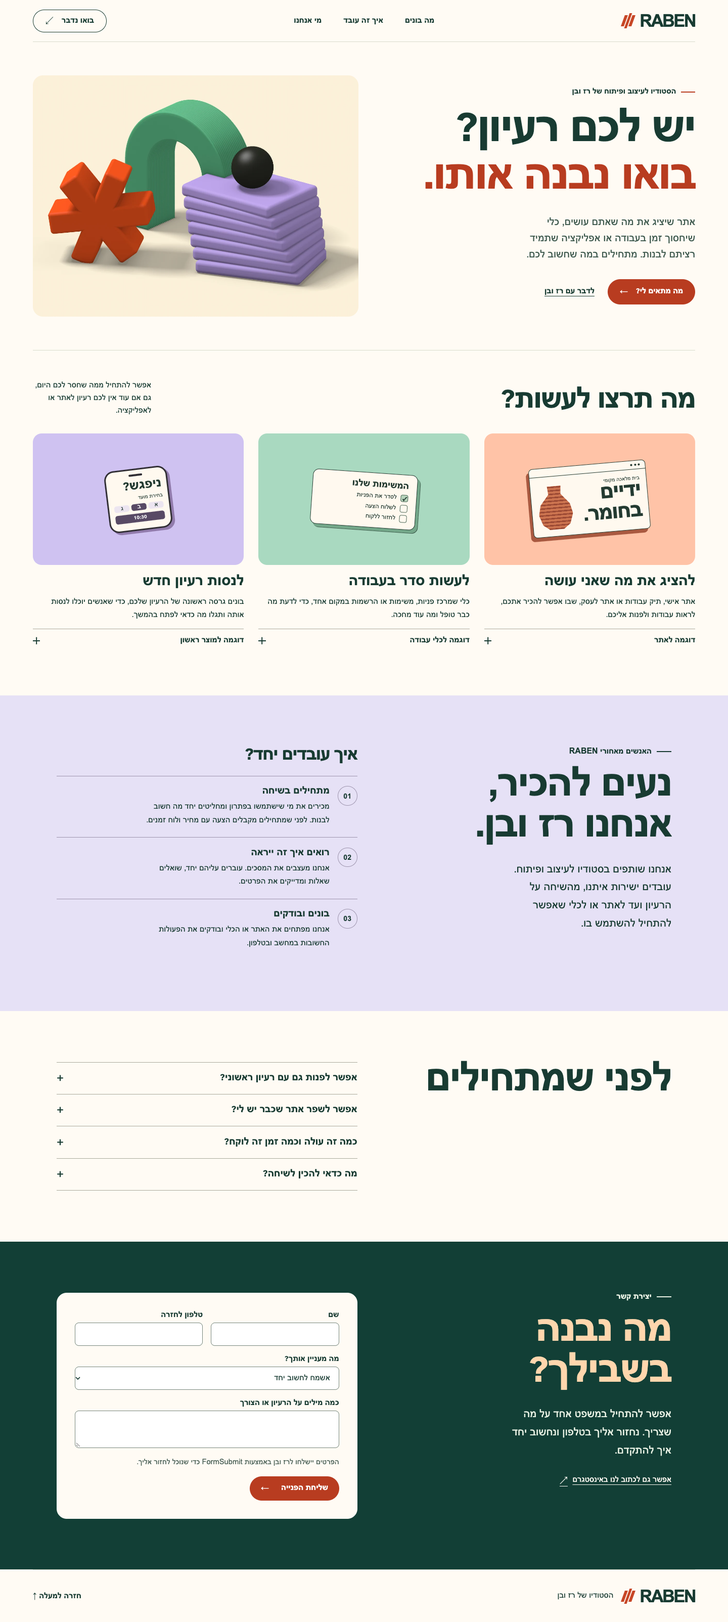
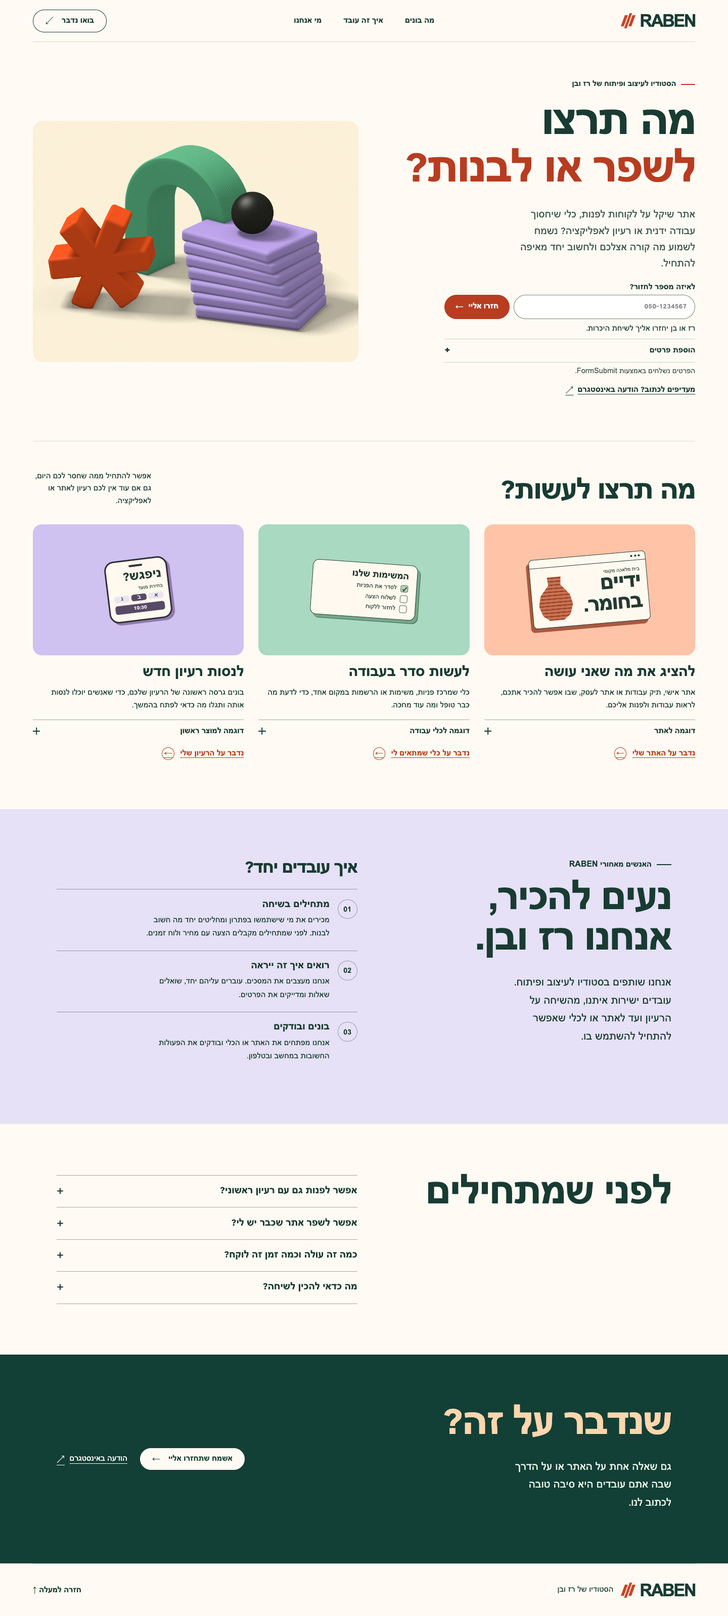
Let visitors request a callback directly from the opening screen

diff --git a/dist/index.html b/dist/index.html
@@ -30,9 +30,50 @@
 <section class="intro shell" aria-labelledby="intro-title">
   <div class="intro-copy">
     <p class="studio-line"><span aria-hidden="true"></span> הסטודיו לעיצוב ופיתוח של רז ובן</p>
-    <h1 id="intro-title">יש לכם רעיון?<br><em>בואו נבנה אותו.</em></h1>
-    <p class="intro-text">אתר שיציג את מה שאתם עושים, כלי שיחסוך זמן בעבודה או אפליקציה שתמיד רציתם לבנות. מתחילים במה שחשוב לכם.</p>
-    <div class="intro-actions"><a class="solid-link" href="#websites">מה מתאים לי? <span aria-hidden="true">←</span></a><a class="quiet-link" href="#contact">לדבר עם רז ובן</a></div>
+    <h1 id="intro-title">מה תרצו<br><em>לשפר או לבנות?</em></h1>
+    <p class="intro-text">אתר שיקל על לקוחות לפנות, כלי שיחסוך עבודה ידנית או רעיון לאפליקציה? נשמח לשמוע מה קורה אצלכם ולחשוב יחד מאיפה להתחיל.</p>
+    <div id="contact" class="hero-contact">
+      <form id="brief-form" class="journey-form" aria-label="בקשת שיחת היכרות עם רז ובן" action="https://formsubmit.co/raben10studio@gmail.com" method="post">
+      <fieldset>
+        <legend class="journey-sr">פרטי הפנייה</legend>
+        <label for="phone">לאיזה מספר לחזור?</label>
+        <div class="callback-row">
+          <input placeholder="050-1234567" id="phone" name="phone" type="tel" dir="ltr" autocomplete="tel" inputmode="tel" maxlength="25" required>
+          <button type="submit">חזרו אליי <span aria-hidden="true">←</span></button>
+        </div>
+        <p class="callback-note">רז או בן יחזרו אליך לשיחת היכרות.</p>
+        <details id="brief-extras" class="journey-extras">
+          <summary><span>הוספת פרטים <small id="brief-topic"></small></span></summary>
+          <label for="idea">על מה נדבר?</label>
+          <textarea id="idea" name="message" rows="2" maxlength="2000"></textarea>
+          <div class="journey-fields">
+            <div><label for="name">שם</label><input id="name" name="name" autocomplete="name" maxlength="100"></div>
+            <div><label for="kind">נושא הפנייה</label>
+              <select id="kind" name="project_type">
+                <option value="רוצה לחשוב על זה יחד">אשמח לחשוב יחד</option>
+                <option value="אתר או ממשק">אתר או דף נחיתה</option>
+                <option value="כלי לעסק">כלי לעבודה יומיומית</option>
+                <option value="רעיון למוצר">מוצר דיגיטלי חדש</option>
+                <option value="שיתוף פעולה">שיתוף פעולה</option>
+              </select>
+            </div>
+          </div>
+        </details>
+        <input type="text" name="_honey" tabindex="-1" autocomplete="off" hidden>
+        <input type="hidden" name="_subject" value="בקשה לשיחת היכרות מאתר RABEN">
+        <input type="hidden" name="_template" value="table">
+        <p class="journey-form-note">הפרטים נשלחים באמצעות FormSubmit.</p>
+      </fieldset>
+      <p id="form-status" role="status"></p>
+      <div id="contact-fallback" hidden>
+        <label for="instagram-brief">הודעה מוכנה לאינסטגרם</label>
+        <textarea id="instagram-brief" readonly rows="5"></textarea>
+        <a id="instagram-fallback-link" class="journey-social" data-instagram href="https://ig.me/m/raben10studio" target="_blank" rel="noopener noreferrer">העתקת ההודעה ופתיחת אינסטגרם <span aria-hidden="true">↗</span></a>
+        <p id="instagram-copy-status" role="status">אחרי ההעתקה אפשר להדביק את ההודעה בשיחה ולשלוח.</p>
+      </div>
+    </form>
+      <a class="hero-dm" data-instagram href="https://ig.me/m/raben10studio" target="_blank" rel="noopener noreferrer">מעדיפים לכתוב? הודעה באינסטגרם <span aria-hidden="true">↗</span></a>
+    </div>
   </div>
   <div class="studio-art" aria-hidden="true"><img src="assets/studio-objects.webp" width="1000" height="820" fetchpriority="high" alt=""></div>
 </section>
@@ -55,8 +96,8 @@
         <details class="service-example">
           <summary>דוגמה לאתר <span aria-hidden="true"></span></summary>
           <p>בעמוד של סדנת קרמיקה אפשר לראות מה מכינים, לבדוק למי הסדנה מתאימה ולבקש להצטרף.</p>
-          <a href="#contact" data-service-kind="אתר או ממשק">נדבר על האתר שלי <span aria-hidden="true">←</span></a>
         </details>
+        <a class="service-contact" href="#contact" data-service-kind="אתר או ממשק">נדבר על האתר שלי <span aria-hidden="true">←</span></a>
       </div>
     </article>
     <article class="service-option" id="solution-tool">
@@ -69,8 +110,8 @@
         <details class="service-example">
           <summary>דוגמה לכלי עבודה <span aria-hidden="true"></span></summary>
           <p>בעמותה שמחלקת סלי מזון, הצוות יכול לראות מי נרשם לחלוקה, למי שובץ מתנדב ומי כבר קיבל סל.</p>
-          <a href="#contact" data-service-kind="כלי לעסק">נדבר על כלי בשבילנו <span aria-hidden="true">←</span></a>
         </details>
+        <a class="service-contact" href="#contact" data-service-kind="כלי לעסק">נדבר על כלי שמתאים לי <span aria-hidden="true">←</span></a>
       </div>
     </article>
     <article class="service-option" id="solution-product">
@@ -83,8 +124,8 @@
         <details class="service-example">
           <summary>דוגמה למוצר ראשון <span aria-hidden="true"></span></summary>
           <p>יש רעיון לחבר בין אנשים שרוצים ללמוד יחד? אפשר להתחיל במסך שמציע שותף ללימוד ומאפשר לקבוע פגישה.</p>
-          <a href="#contact" data-service-kind="רעיון למוצר">נדבר על הרעיון שלי <span aria-hidden="true">←</span></a>
         </details>
+        <a class="service-contact" href="#contact" data-service-kind="רעיון למוצר">נדבר על הרעיון שלי <span aria-hidden="true">←</span></a>
       </div>
     </article>
   </div>
@@ -120,45 +161,13 @@
     </div>
   </div>
 </section>
-<section id="contact" class="journey-block journey-contact" aria-labelledby="contact-title">
-  <div class="journey-shell journey-contact-layout">
+<section class="journey-block journey-contact" aria-labelledby="contact-title">
+  <div class="journey-shell closing-contact">
     <div class="journey-intro">
-      <p class="journey-kicker">יצירת קשר</p>
-      <h2 id="contact-title">מה נבנה<br>בשבילך?</h2>
-      <p>אפשר להתחיל במשפט אחד על מה שצריך. נחזור אליך בטלפון ונחשוב יחד איך להתקדם.</p>
-      <a class="journey-social" href="https://ig.me/m/raben10studio" target="_blank" rel="noopener noreferrer">אפשר גם לכתוב לנו באינסטגרם <span aria-hidden="true">↗</span></a>
+      <h2 id="contact-title">שנדבר על זה?</h2>
+      <p>גם שאלה אחת על האתר או על הדרך שבה אתם עובדים היא סיבה טובה לכתוב לנו.</p>
     </div>
-    <form id="brief-form" class="journey-form" aria-labelledby="contact-title" action="https://formsubmit.co/raben10studio@gmail.com" method="post">
-      <fieldset>
-        <legend class="journey-sr">פרטי הפנייה</legend>
-        <div class="journey-fields">
-          <div><label for="name">שם</label><input id="name" name="name" autocomplete="name" maxlength="100" required></div>
-          <div><label for="phone">טלפון לחזרה</label><input id="phone" name="phone" type="tel" dir="ltr" autocomplete="tel" inputmode="tel" maxlength="25" required></div>
-        </div>
-        <label for="kind">מה מעניין אותך?</label>
-        <select id="kind" name="project_type">
-          <option value="רוצה לחשוב על זה יחד">אשמח לחשוב יחד</option>
-          <option value="אתר או ממשק">אתר או דף נחיתה</option>
-          <option value="כלי לעסק">כלי לעבודה יומיומית</option>
-          <option value="רעיון למוצר">מוצר דיגיטלי חדש</option>
-          <option value="שיתוף פעולה">שיתוף פעולה</option>
-        </select>
-        <label for="idea">כמה מילים על הרעיון או הצורך</label>
-        <textarea id="idea" name="message" rows="3" maxlength="2000" required></textarea>
-        <input type="text" name="_honey" tabindex="-1" autocomplete="off" hidden>
-        <input type="hidden" name="_subject" value="פנייה חדשה מאתר RABEN">
-        <input type="hidden" name="_template" value="table">
-        <p class="journey-form-note">הפרטים יישלחו לרז ובן באמצעות FormSubmit כדי שנוכל לחזור אליך.</p>
-        <button type="submit">שליחת הפנייה <span aria-hidden="true">←</span></button>
-      </fieldset>
-      <p id="form-status" role="status"></p>
-      <div id="contact-fallback" hidden>
-        <label for="instagram-brief">הודעה מוכנה לאינסטגרם</label>
-        <textarea id="instagram-brief" readonly rows="5"></textarea>
-        <a id="instagram-fallback-link" class="journey-social" href="https://ig.me/m/raben10studio" target="_blank" rel="noopener noreferrer">העתקת ההודעה ופתיחת אינסטגרם <span aria-hidden="true">↗</span></a>
-        <p id="instagram-copy-status" role="status">אחרי ההעתקה אפשר להדביק את ההודעה בשיחה ולשלוח.</p>
-      </div>
-    </form>
+    <div class="closing-actions"><a class="header-contact" href="#contact">אשמח שתחזרו אליי <span aria-hidden="true">←</span></a><a class="journey-social" data-instagram href="https://ig.me/m/raben10studio" target="_blank" rel="noopener noreferrer">הודעה באינסטגרם <span aria-hidden="true">↗</span></a></div>
   </div>
 </section>
 </main>

diff --git a/dist/styles.css b/dist/styles.css
@@ -28,10 +28,10 @@ section[id] { scroll-margin-block-start: 24px; }
 .brand-emblem i { width: .16em; height: .62em; background: #c74626; }
 .brand-emblem i:nth-child(2) { height: .86em; }
 .masthead nav { display: flex; flex-wrap: wrap; justify-content: center; gap: clamp(16px,3vw,48px); }
-.masthead nav a, .header-contact, .intro-actions a, .endbar a { text-decoration: none; font-weight: 700; }
+.masthead nav a, .header-contact, .endbar a { text-decoration: none; font-weight: 700; }
 .masthead nav a { padding-block: 12px; }
 .masthead nav a:hover, .endbar a:hover { text-decoration: underline; text-underline-offset: 5px; }
-.header-contact, .solid-link { display: inline-flex; align-items: center; justify-content: center; gap: 16px; border-radius: 999px; min-height: 45px; padding: 0 24px; }
+.header-contact { display: inline-flex; align-items: center; justify-content: center; gap: 16px; border-radius: 999px; min-height: 45px; padding: 0 24px; }
 .header-contact { border: 1px solid var(--ink); }
 .header-contact:hover { background: var(--ink); color: white; }
 .intro { display: grid; grid-template-columns: .96fr 1.04fr; align-items: center; gap: clamp(28px,5vw,85px); padding-block: clamp(36px,4.6vw,74px); }
@@ -41,10 +41,6 @@ section[id] { scroll-margin-block-start: 24px; }
 .intro h1 { font-size: clamp(54px,6.35vw,102px); line-height: 1.03; letter-spacing: -.026em; margin-block: .27em .24em; }
 .intro h1 em { font-style: normal; color: var(--orange); }
 .intro-text { font-size: clamp(18px,1.45vw,23px); line-height: 1.55; max-width: 35ch; color: #405b50; }
-.intro-actions { display: flex; align-items: center; flex-wrap: wrap; gap: 26px; margin-block-start: clamp(20px,2.1vw,34px); }
-.solid-link { background: var(--orange); color: white; min-height: 50px; }
-.solid-link:hover { background: #94311d; }
-.intro-actions .quiet-link { text-decoration: underline; text-underline-offset: 5px; padding-block: 12px; }
 .studio-art { aspect-ratio: 1.35; overflow: hidden; background: #efe8da; border-radius: 20px; }
 .studio-art img { display: block; width: 100%; height: 100%; object-fit: cover; }
 .endbar { display: flex; align-items: center; gap: 1rem; padding-block: 32px; border-top: 1px solid var(--rule); }
@@ -67,3 +63,9 @@ section[id] { scroll-margin-block-start: 24px; }
 @media (prefers-reduced-motion: reduce) { :root { scroll-behavior: auto; } }
 .services.section { width: min(1320px,91%); margin-inline: auto; border-top: 1px solid var(--rule); padding-block: clamp(38px,4vw,68px) clamp(50px,6vw,95px); }
 .services-heading h2 { font-size: clamp(38px,4vw,64px); line-height: 1.06; letter-spacing: -.022em; }
+.hero-contact { margin-block-start: 1.25rem; scroll-margin-top: 1.25rem; }
+.hero-dm { display: inline-flex; gap: .5em; align-items: center; padding-block: .8rem; font-weight: 600; text-underline-offset: .23em; }
+.closing-contact, .closing-actions { display: flex; flex-wrap: wrap; align-items: center; gap: 1.5rem; }
+.closing-contact { justify-content: space-between; }
+.closing-actions .header-contact { background: var(--paper); color: var(--ink); }
+.closing-actions .journey-social { margin: 0; }

diff --git a/dist/app.js b/dist/app.js
@@ -81,7 +81,7 @@ if (contact?.email) {
   form.action = destination.href;
 }
 if (contact?.instagram) {
-  document.querySelectorAll('#contact .journey-social').forEach(link => {
+  document.querySelectorAll('[data-instagram]').forEach(link => {
     link.href = 'https://ig.me/m/' + encodeURIComponent(contact.instagram);
   });
 }
@@ -95,14 +95,18 @@ const fallback = document.getElementById('contact-fallback');
 const instagramBrief = document.getElementById('instagram-brief');
 const copyStatus = document.getElementById('instagram-copy-status');
 
+function callbackMessage() {
+  return message.value.trim() || 'אשמח שתחזרו אליי לשיחת היכרות.';
+}
+
 function updateFallback() {
   instagramBrief.value = [
     'היי רז ובן, אשמח לדבר על פרויקט.',
-    'שם: ' + nameField.value.trim(),
+    ...(nameField.value.trim() ? ['שם: ' + nameField.value.trim()] : []),
     'טלפון: ' + phone.value.trim(),
     'סוג הפרויקט: ' + kind.selectedOptions[0].textContent,
     '',
-    message.value.trim()
+    callbackMessage()
   ].join('\n');
 }
 
@@ -110,15 +114,21 @@ form.addEventListener('input', event => {
   event.target.setCustomValidity?.('');
   if (!fallback.hidden) updateFallback();
 });
+function updateTopic() {
+  document.getElementById('brief-topic').textContent = kind.selectedIndex > 0
+    ? kind.selectedOptions[0].textContent
+    : '';
+}
+
+updateTopic();
 kind.addEventListener('change', () => {
+  updateTopic();
   if (!fallback.hidden) updateFallback();
 });
 
 form.addEventListener('submit', async event => {
   event.preventDefault();
   if (fieldset.disabled) return;
-  nameField.setCustomValidity(nameField.value.trim() ? '' : 'כדאי להוסיף שם כדי שנדע למי לחזור.');
-  message.setCustomValidity(message.value.trim() ? '' : 'אפשר לספר במשפט אחד מה הצורך שלך.');
   const number = phone.value.trim();
   const validPhone = /^\+?[0-9\s()-]+$/.test(number) && /^\d{8,15}$/.test(number.replace(/\D/g, ''));
   phone.setCustomValidity(validPhone ? '' : 'יש להזין מספר טלפון תקין, כולל קידומת.');
@@ -127,7 +137,7 @@ form.addEventListener('submit', async event => {
   const payload = Object.fromEntries(new FormData(form));
   payload.name = nameField.value.trim();
   payload.phone = number;
-  payload.message = message.value.trim();
+  payload.message = callbackMessage();
   fieldset.disabled = true;
   fallback.hidden = true;
   formStatus.textContent = 'שולחים את הפנייה…';
@@ -145,6 +155,8 @@ form.addEventListener('submit', async event => {
     const result = await response.json();
     if (!response.ok || ![true, 'true'].includes(result.success)) throw new Error('Submission rejected');
     form.reset();
+    document.getElementById('brief-extras').open = false;
+    updateTopic();
     instagramBrief.value = '';
     formStatus.textContent = 'תודה, הפנייה נשלחה. נחזור אליך למספר שהשארת.';
   } catch {

diff --git a/dist/journey.css b/dist/journey.css
@@ -106,9 +106,7 @@
   text-underline-offset: 5px;
 }
 .journey-form {
-  padding: clamp(1.2rem, 3vw, 2.25rem);
-  border-radius: 1.25rem;
-  background: #fffbf4;
+  max-width: 31rem;
   color: #183b32;
 }
 .journey-form fieldset { border: 0; margin: 0; padding: 0; min-width: 0; }
@@ -117,6 +115,26 @@
   grid-template-columns: repeat(2, minmax(0, 1fr));
   gap: 1rem;
 }
+.journey-extras {
+  border-block: 1px solid #c9d0c2;
+  margin-block: .45rem;
+}
+.journey-extras summary {
+  display: flex;
+  align-items: center;
+  justify-content: space-between;
+  gap: .8rem;
+  padding-block: .65rem;
+  min-height: 44px;
+  list-style: none;
+  cursor: pointer;
+  font-weight: 600;
+}
+.journey-extras summary::-webkit-details-marker { display: none; }
+.journey-extras summary::after { content: '+'; font-size: 1.4rem; }
+.journey-extras[open] summary::after { content: '−'; }
+.journey-extras small { font-size: .85rem; color: #475e54; margin-inline-start: .35rem; }
+.journey-extras .journey-fields { margin-block-start: .4rem; }
 .journey-form label {
   display: block;
   margin-block-end: .4rem;
@@ -150,10 +168,19 @@
   font-weight: 650;
   cursor: pointer;
 }
+.callback-row {
+  display: grid;
+  grid-template-columns: minmax(0, 1fr) auto;
+  gap: .55rem;
+}
+.journey-form .callback-row input { min-width: 0; margin: 0; border-radius: 2rem; padding-inline: 1rem; text-align: right; }
+.journey-form .callback-row button { white-space: nowrap; gap: .6rem; }
+.journey-form .callback-note { margin: .5rem 0 0; font-size: 1rem; line-height: 1.5; }
+.journey-form #form-status:empty { margin: 0; }
 .journey-form button:hover { background: #94311d; }
 .journey-form fieldset:disabled { opacity: .7; }
 .journey-form .journey-form-note,
-#instagram-copy-status { font-size: .92rem; line-height: 1.5; margin-block: .25rem 1rem; color: #475e54; }
+#instagram-copy-status { font-size: .92rem; line-height: 1.5; margin-block: .25rem 0; color: #475e54; }
 #form-status:not(:empty),
 #contact-fallback:not([hidden]) { margin-block-start: 1rem; }
 #form-status:not(:empty) { padding: .85rem 1rem; border-radius: .6rem; background: #e1eee2; }

diff --git a/dist/services.css b/dist/services.css
@@ -171,7 +171,7 @@
 .service-body > p { margin-block: .55rem .85rem; line-height: 1.6; }
 
 .service-example { border-block-start: 1px solid #aba99e; }
-.service-example summary, .service-example a {
+.service-example summary, .service-contact {
   display: flex;
   align-items: center;
   gap: .7rem;
@@ -203,9 +203,24 @@
 
 .service-example summary span::after { transform: rotate(90deg); }
 .service-example[open] summary span::after { display: none; }
-.service-example p { line-height: 1.6; }
-.service-example a { width: fit-content; text-decoration: underline; text-underline-offset: .24em; }
-.service-example :is(summary, a):hover { text-decoration: underline; text-underline-offset: .24em; }
+.service-example p { padding-block-end: .8rem; line-height: 1.6; }
+.service-example summary:hover { text-decoration: underline; text-underline-offset: .24em; }
+.service-contact {
+  width: fit-content;
+  color: var(--orange);
+  text-decoration: underline;
+  text-underline-offset: .22em;
+}
+.service-contact span {
+  display: grid;
+  place-items: center;
+  width: 1.55rem;
+  height: 1.55rem;
+  border: 1px solid currentColor;
+  border-radius: 50%;
+  line-height: 1;
+}
+.service-contact:is(:hover, :focus-visible) span { background: var(--orange); color: white; }
 
 @media (max-width: 760px) {
   .services-heading { display: grid; gap: .6rem; margin-block-end: 1.4rem; }

diff --git a/dist/services.js b/dist/services.js
@@ -2,7 +2,7 @@
 document.querySelectorAll('[data-service-kind]').forEach(link => {
   link.addEventListener('click', () => {
     const field = document.getElementById('kind');
-    if (!field || field.disabled) return;
+    if (!field || field.matches(':disabled')) return;
     field.value = link.dataset.serviceKind;
     field.dispatchEvent(new Event('change', { bubbles: true }));
   });

diff --git a/README.md b/README.md
@@ -1,6 +1,6 @@
 # RABEN · הסטודיו של רז ובן
 
-אתר בעברית לעיצוב ופיתוח אתרים, כלים לעבודה ומוצרים דיגיטליים. אפשר לבחור צורך, לפתוח דוגמה ולפנות ישירות לרז ובן. העמוד כתוב ב־HTML, CSS ו־JavaScript ופועל ללא שלב בנייה.
+אתר בעברית לעיצוב ופיתוח אתרים, כלים לעבודה ומוצרים דיגיטליים. במסך הפתיחה מופיע טופס לבקשת שיחה עם רז ובן. אפשר גם לפנות אליהם בהודעה באינסטגרם. לכל שירות יש דוגמה וקישור פנייה משלו. העמוד כתוב ב־HTML, CSS ו־JavaScript ופועל ללא שלב בנייה.
 
 ![מסך הבית במחשב](docs/screenshots/desktop.png)
 
@@ -30,7 +30,7 @@ python3 -m http.server 4173 --bind 127.0.0.1 --directory dist
 
 ## פניות ועבודות
 
-הדוגמאות לשירותים נפתחות גם ללא JavaScript. לאחר בחירת הקישור בתוך דוגמה, JavaScript ממלא את נושא הפנייה. אפשר לשנות אותו או לבחור לחשוב יחד. השליחה מתבצעת באמצעות FormSubmit. במקרה של כשל הפרטים נשמרים בטופס ואפשר להעתיק הודעה מוכנה לאינסטגרם. כתובת הטופס וקישור האינסטגרם מופיעים גם ב־HTML לשימוש ללא JavaScript.
+הדוגמאות לשירותים נפתחות גם ללא JavaScript. הקישור הגלוי בכל כרטיס שירות מעביר את הנושא לטופס בעזרת JavaScript. מספר טלפון הוא שדה החובה היחיד. אפשר להוסיף הודעה אישית ושם ולערוך את הנושא לפני השליחה. השליחה מתבצעת באמצעות FormSubmit. במקרה של כשל הפרטים נשמרים בטופס ואפשר להעתיק הודעה מוכנה לאינסטגרם. כתובת הטופס וקישור האינסטגרם מופיעים גם ב־HTML לשימוש ללא JavaScript.
 
 עבודות מוצגות רק בעקבות אישור לפרסום ואימות ציבורי בשרת. רשימה ריקה מסתירה גם את הקישור בניווט. [מבנה הרשומות ואופן האימות](docs/PROJECT-VERIFICATION.md)
 

diff --git a/docs/DESIGN-VERIFICATION.md b/docs/DESIGN-VERIFICATION.md
@@ -2,8 +2,9 @@
 
 הבדיקות בוצעו ב־Google Chrome מול האתר המקומי. צילומי המסך במאגר משקפים את הגרסה הזו.
 
-- בשלושת השירותים נבדקה פתיחת הדוגמה והגעה לטופס עם סוג הפנייה המתאים.
+- בשלושת השירותים נבדק שהקישור לפנייה גלוי כשהדוגמה סגורה ושנושא הפנייה עובר לטופס.
 - ברוחבי מסך של 320, 390, 660, 768, 1024 ו־1440 פיקסלים נבדק שאין גלישה אופקית.
+- בתצוגת נייד של 390×844 פיקסלים כפתור בקשת השיחה גלוי במסך הראשון. טלפון הוא שדה החובה היחיד.
 - נבדקו קישור הדילוג באמצעות המקלדת, פתיחת תשובה באמצעות Enter והיעדים של הקישורים הפנימיים.
 - כשהרצת JavaScript כבויה אפשר לפתוח דוגמה, לעבור לטופס ולהגיע לכפתור השליחה.
 - נבדקו חסימת מספר טלפון שגוי, שמירת הפרטים והצגת נוסח לאינסטגרם אחרי כשל, ואיפוס הטופס אחרי אישור שליחה. התגובות מ־FormSubmit הודמו בדפדפן.
